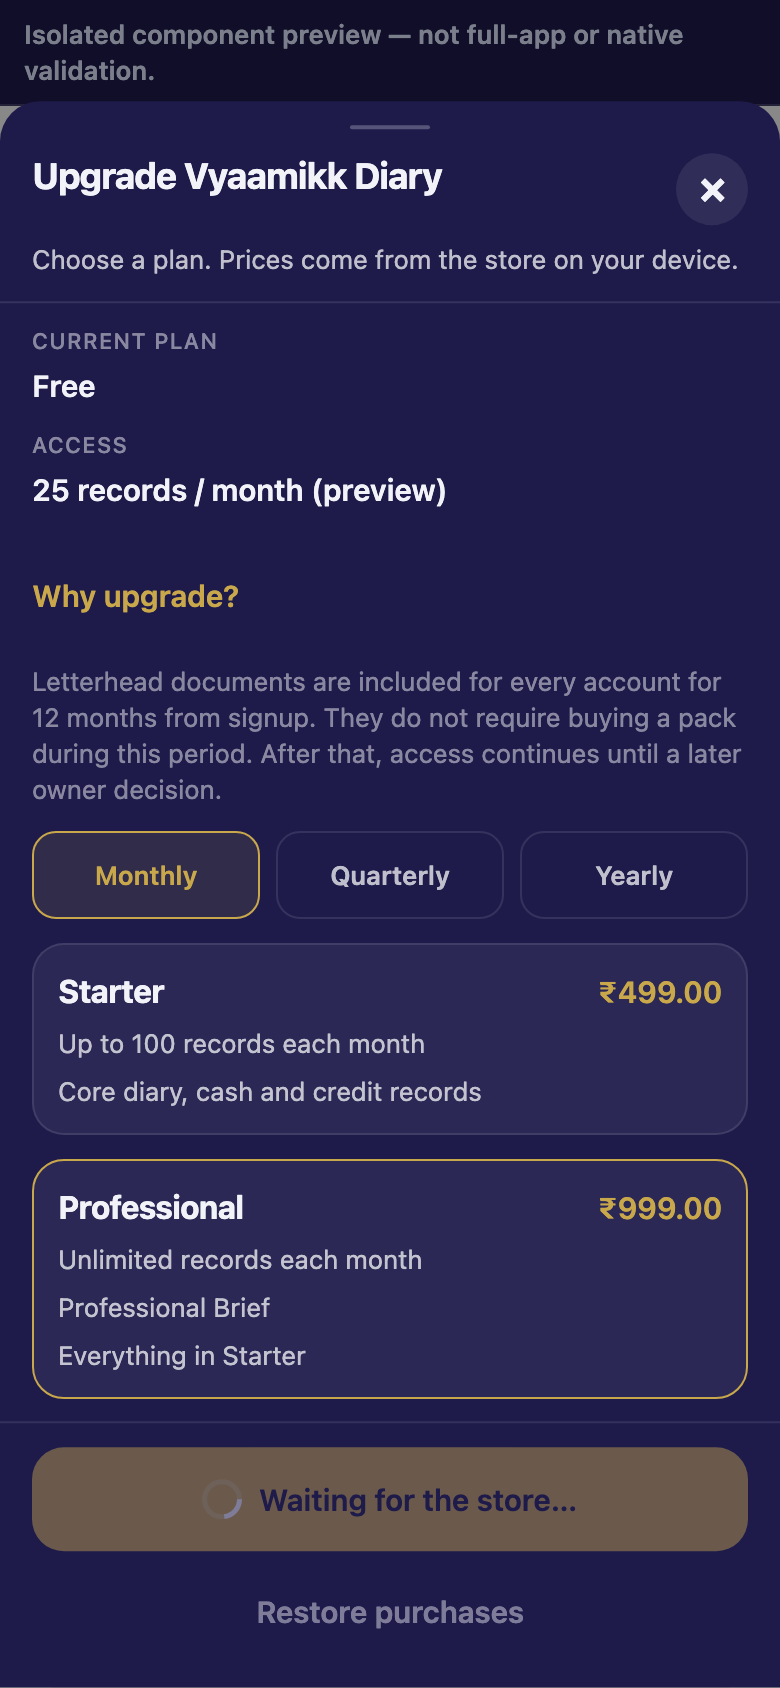
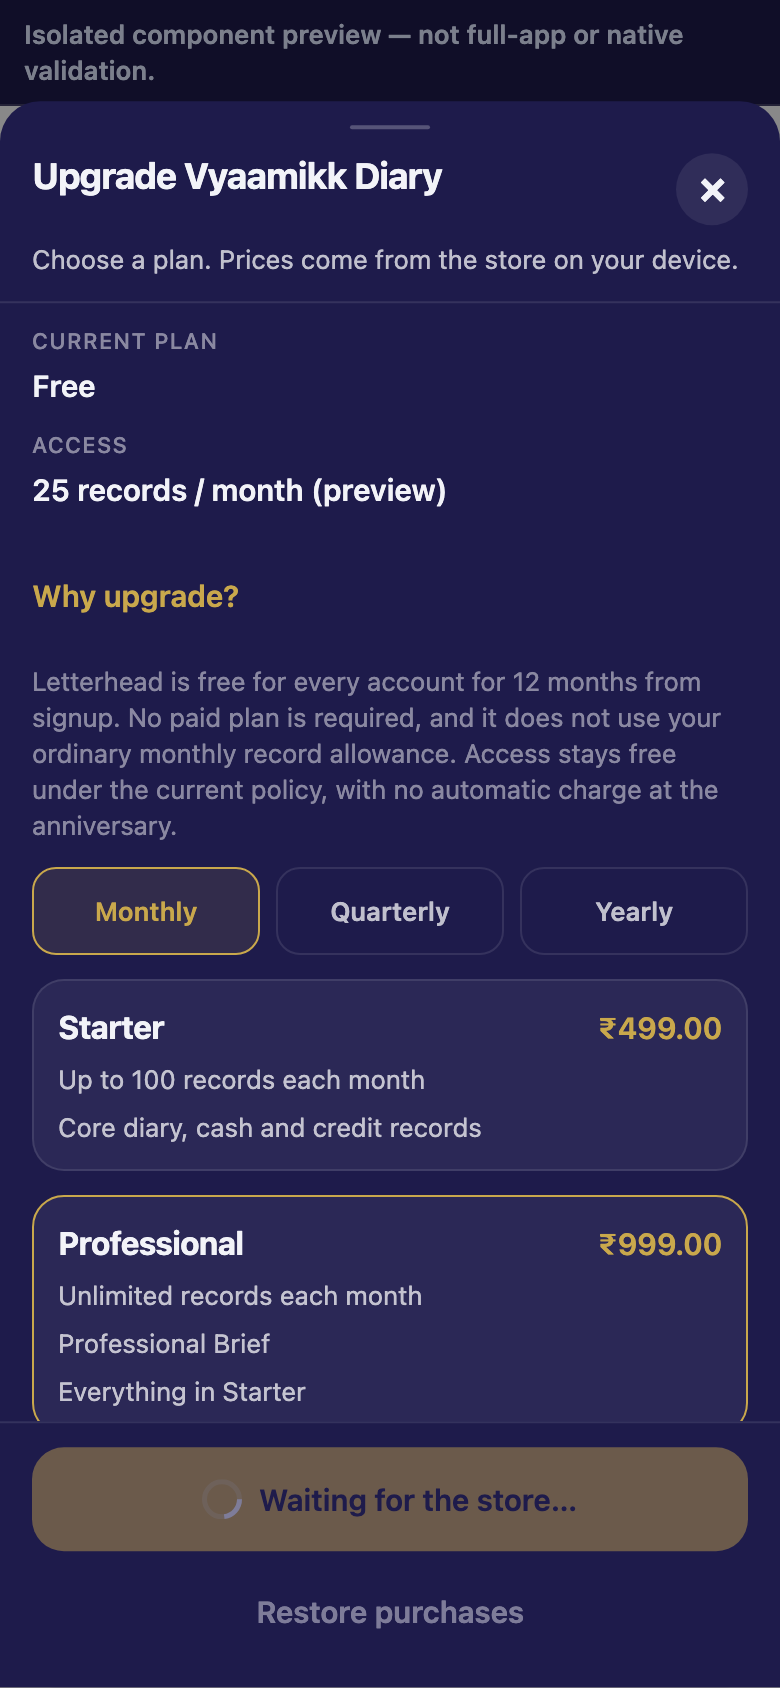
VYD-37: recapture EN/HI upgrade sheets after the free-letterhead copy.
Ordinary and narrow viewports show wrapping and reachable CTAs; unchanged hub and education captures were kept.

diff --git a/tools/billing-ux-harness/captures/isolated-contact-sheet.html b/tools/billing-ux-harness/captures/isolated-contact-sheet.html
@@ -9,7 +9,7 @@ figcaption{margin-top:6px;word-break:break-word}
 .banner{padding:12px 16px;background:#1E1B4B}
 </style>
 <p class="banner">Isolated component preview — not full-app or native validation.</p>
-<h1>VYD-37 isolated captures · f81a7d252ad2</h1>
+<h1>VYD-37 isolated captures · c66f7727365a</h1>
 <div class="grid"><figure><img src="isolated-hub-en.png" alt="hub-en-phone-390x844" /><figcaption>isolated-hub-en.png<br/>hub-en-phone-390x844<br/>390×844 dpr=2 lang=en</figcaption></figure>
 <figure><img src="isolated-hub-en-scrolled.png" alt="hub-en-scrolled-end" /><figcaption>isolated-hub-en-scrolled.png<br/>hub-en-scrolled-end<br/>390×844 dpr=2 lang=en</figcaption></figure>
 <figure><img src="isolated-hub-en-narrow.png" alt="hub-en-narrow-320x720" /><figcaption>isolated-hub-en-narrow.png<br/>hub-en-narrow-320x720<br/>320×720 dpr=2 lang=en</figcaption></figure>
@@ -36,4 +36,5 @@ figcaption{margin-top:6px;word-break:break-word}
 <figure><img src="isolated-hub-hi-trial-off.png" alt="hub-hi-trial-ineligible-toggle" /><figcaption>isolated-hub-hi-trial-off.png<br/>hub-hi-trial-ineligible-toggle<br/>390×844 dpr=2 lang=hi</figcaption></figure>
 <figure><img src="isolated-education-hi.png" alt="education-hi" /><figcaption>isolated-education-hi.png<br/>education-hi<br/>390×844 dpr=2 lang=hi</figcaption></figure>
 <figure><img src="isolated-education-hi-enlarged.png" alt="education-hi-css-zoom-1.75" /><figcaption>isolated-education-hi-enlarged.png<br/>education-hi-css-zoom-1.75<br/>390×844 dpr=2 lang=hi</figcaption></figure>
-<figure><img src="isolated-sheet-record-limit-hi.png" alt="trigger-recordLimitReached-hi" /><figcaption>isolated-sheet-record-limit-hi.png<br/>trigger-recordLimitReached-hi<br/>390×844 dpr=2 lang=hi</figcaption></figure></div>
+<figure><img src="isolated-sheet-record-limit-hi.png" alt="trigger-recordLimitReached-hi" /><figcaption>isolated-sheet-record-limit-hi.png<br/>trigger-recordLimitReached-hi<br/>390×844 dpr=2 lang=hi</figcaption></figure>
+<figure><img src="isolated-sheet-record-limit-hi-narrow.png" alt="trigger-recordLimitReached-hi-narrow-cta-dock" /><figcaption>isolated-sheet-record-limit-hi-narrow.png<br/>trigger-recordLimitReached-hi-narrow-cta-dock<br/>320×720 dpr=2 lang=hi</figcaption></figure></div>
